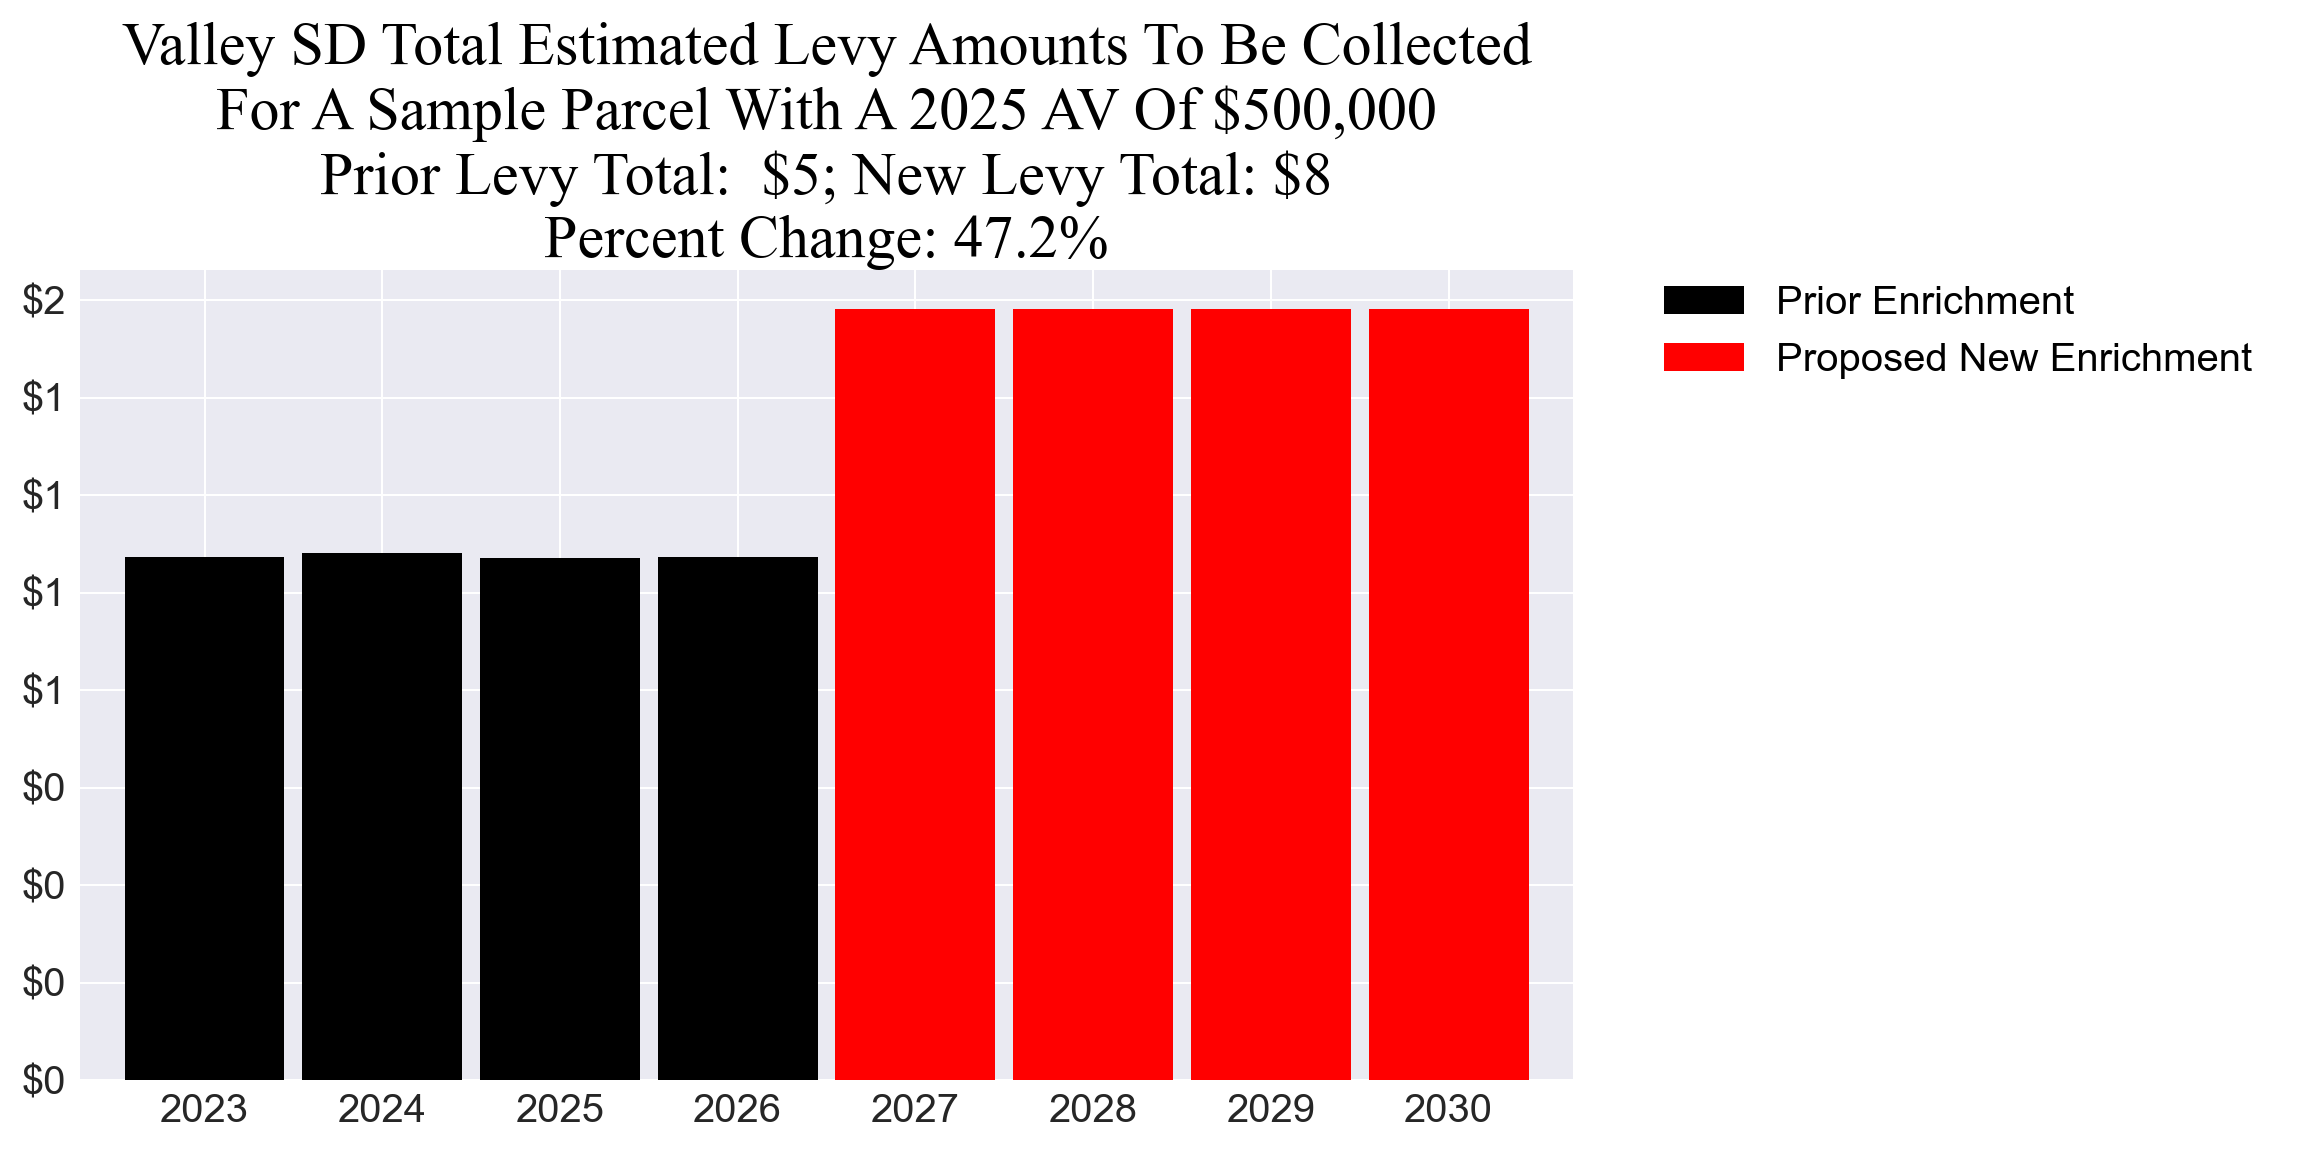
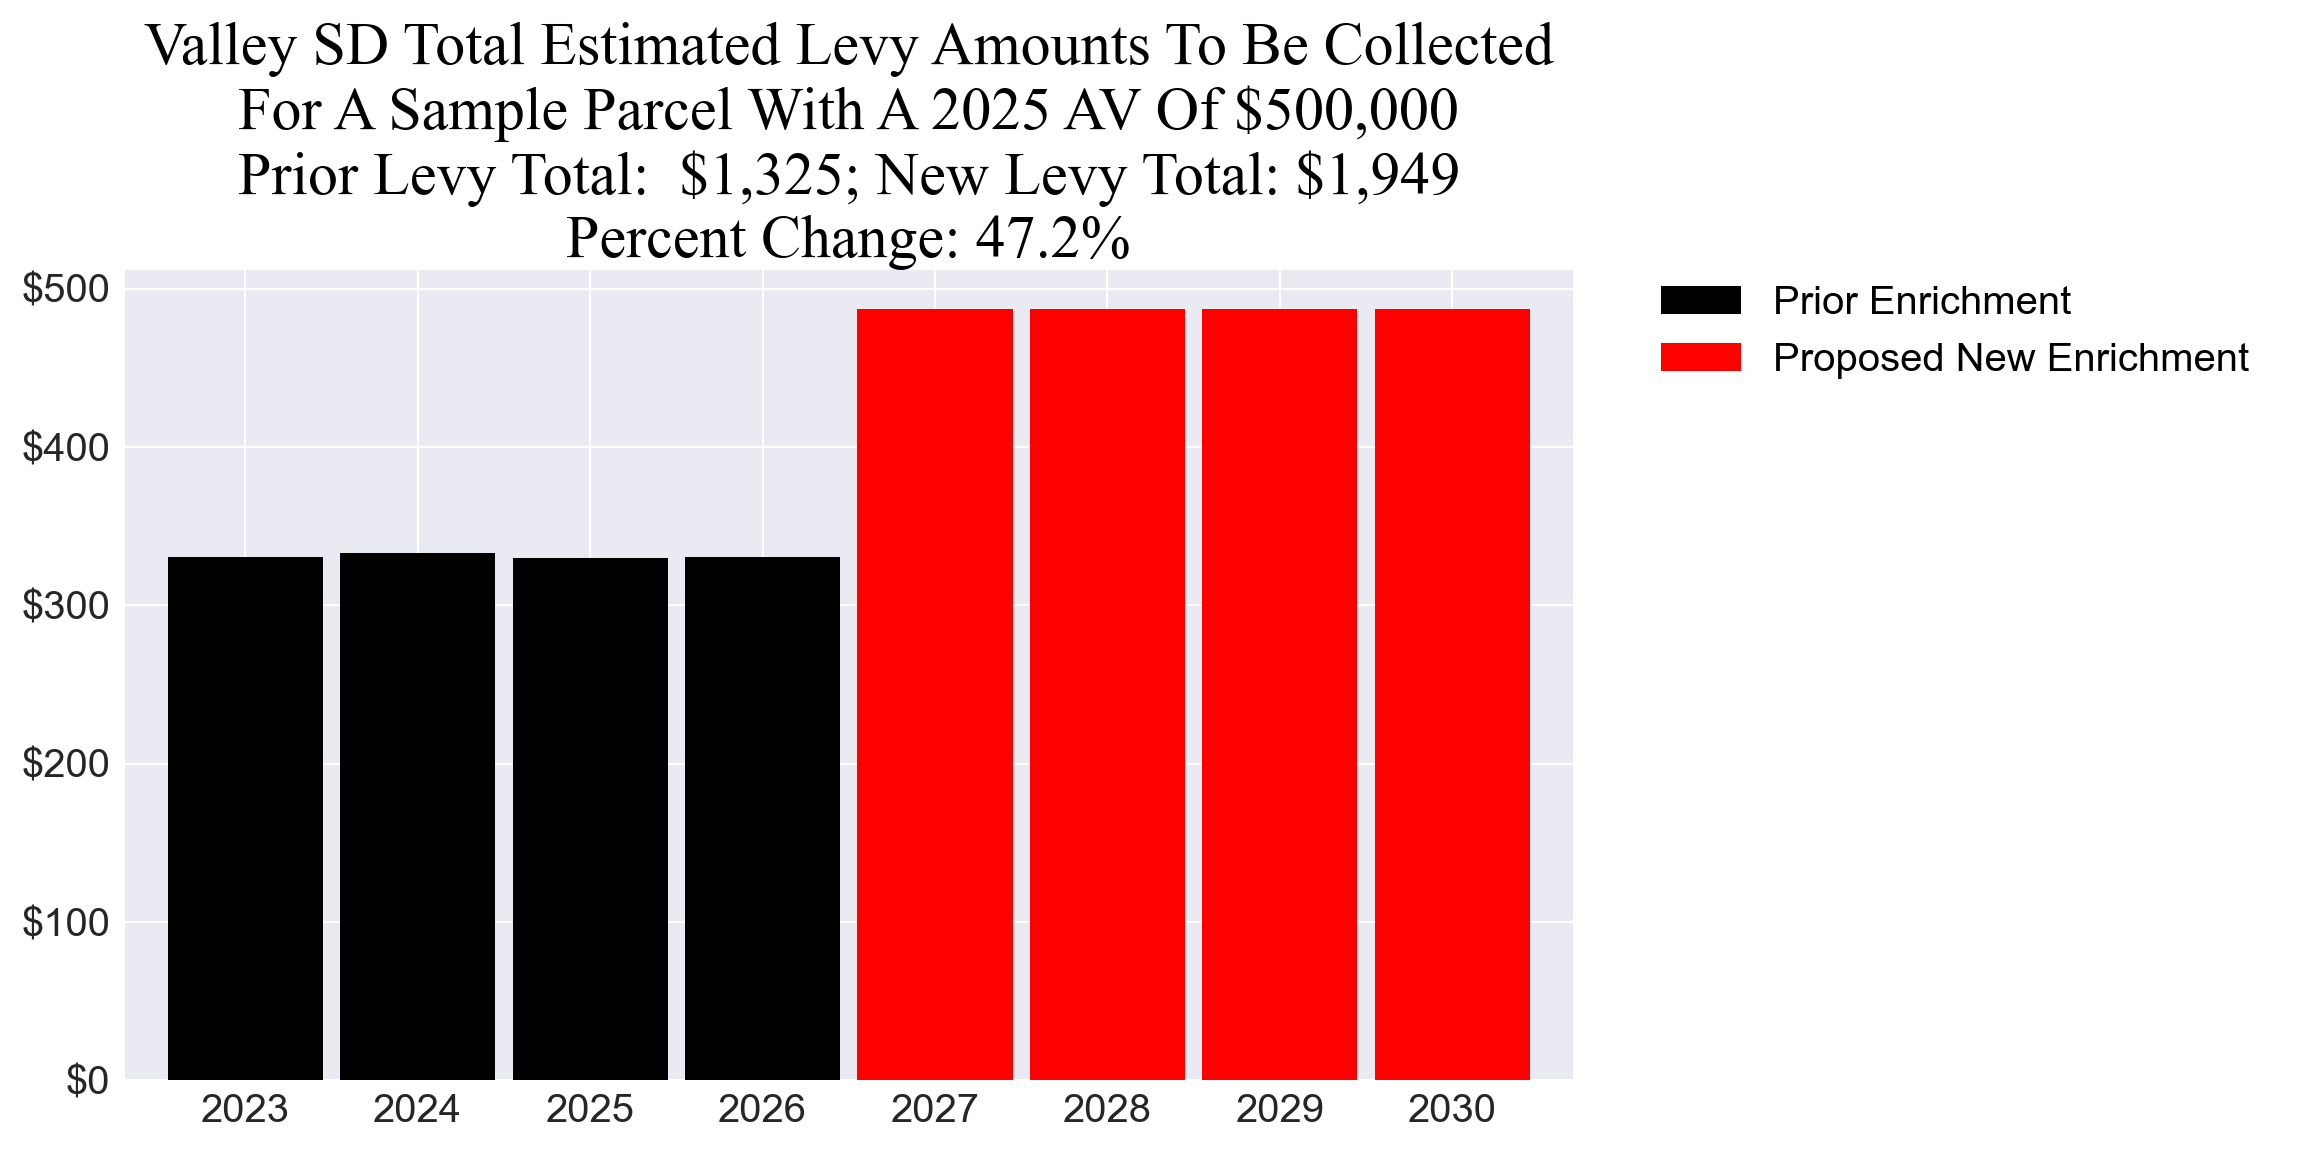
Updated elec 20260210
Corrected:
Valley SD

diff --git a/_includes/cost_estimates/20260210/ValleyEnrichmentLevyTable_20260210.html b/_includes/cost_estimates/20260210/ValleyEnrichmentLevyTable_20260210.html
@@ -15,7 +15,7 @@ table, th, td {
 	<!-- var chart; -->
 	var dataParcel;
 	
-	totalLevyAV = 56597298753;
+	totalLevyAV = 229671309;
 	sampleParcelAV = 500000;
 	sampleParcelAVMin = 100000;
 	sampleParcelAVMax = 2000000;
@@ -66,12 +66,12 @@ table, th, td {
 		data.addColumn('number', 'Example Property\'s POF Change');
 
 		data.addRows([
-				['2025', 0, 56597298753, 0.0, 0, 0, 0.0, 0, 0, 0, 0.0, 0.0, 0],
-			['2026', 0, 56597298753, 0.0, 0, 0, 0.0, 0, 0, 0, 0.0, 0.0, 0],
-			['2027', 223837, 56597298753, 0.0, 0, 0, 0.0, 0, 0, 0, 0.0, 0.0, 0],
-			['2028', 223837, 56597298753, 0.0, 0, 0, 0.0, 0, 0, 0, 0.0, 0.0, 0],
-			['2029', 223837, 56597298753, 0.0, 0, 0, 0.0, 0, 0, 0, 0.0, 0.0, 0],
-			['2030', 223837, 56597298753, 0.0, 0, 0, 0.0, 0, 0, 0, 0.0, 0.0, 0],
+				['2025', 0, 229671309, 0.0, 0, 0, 0.0, 0, 0, 0, 0.0, 0.0, 0],
+			['2026', 0, 229671309, 0.0, 0, 0, 0.0, 0, 0, 0, 0.0, 0.0, 0],
+			['2027', 223837, 229671309, 0.0, 0, 0, 0.0, 0, 0, 0, 0.0, 0.0, 0],
+			['2028', 223837, 229671309, 0.0, 0, 0, 0.0, 0, 0, 0, 0.0, 0.0, 0],
+			['2029', 223837, 229671309, 0.0, 0, 0, 0.0, 0, 0, 0, 0.0, 0.0, 0],
+			['2030', 223837, 229671309, 0.0, 0, 0, 0.0, 0, 0, 0, 0.0, 0.0, 0],
 
 		]);
 		

diff --git a/_includes/cost_estimates/20260210/Valley_Enrichment_20260210_Enhanced.html b/_includes/cost_estimates/20260210/Valley_Enrichment_20260210_Enhanced.html
@@ -10,7 +10,7 @@
 	var chart;
 	var dataParcel;
 	
-	totalLevyAV = 56597298753;
+	totalLevyAV = 229671309;
 	sampleParcelAV = 500000;
 	sampleParcelAVMin = 100000;
 	sampleParcelAVMax = 2000000;
